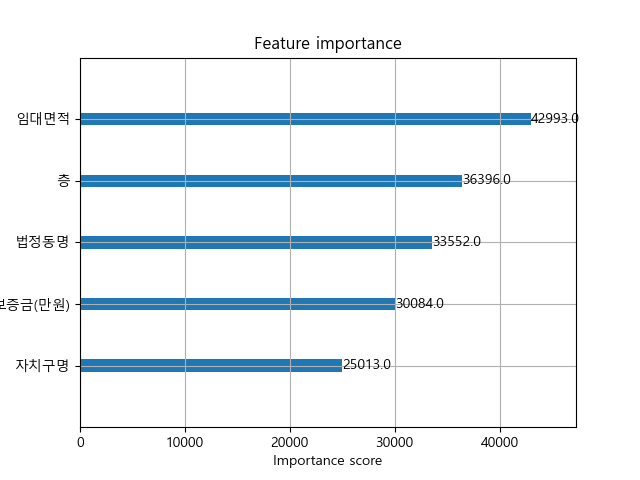
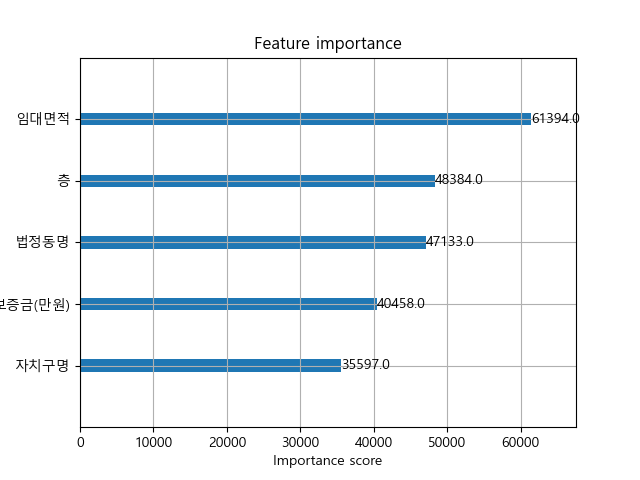
streamlit api서버연결 코드 추가

diff --git a/ml_python/data_preprocessing.py b/ml_python/data_preprocessing.py
@@ -75,21 +75,30 @@ class DataPreProcessing:
         return df
     
 
-    def __checkYData(self, df):
+    def __checkYData(self, df, mode="scatter"):
         font_path = 'C:\\windows\\Fonts\\malgun.ttf'
         #font의 파일정보로 font name 을 알아내기
         font_prop = fm.FontProperties(fname=font_path).get_name()
         plt.rc('font', family=font_prop)
 
-        plt.figure(figsize=(12, 6))
-        plt.scatter(df.index, df["임대료(만원)"], alpha=0.4, color='dodgerblue')
+        if mode == "scatter":
+            plt.figure(figsize=(12, 6))
+            plt.scatter(df.index, df["임대료(만원)"], alpha=0.4, color='dodgerblue')
 
-        plt.title("정답 데이터 (임대료) 분포 - Scatter Plot")
-        plt.xlabel("데이터 인덱스")
-        plt.ylabel("임대료 (만원)")
-        plt.grid(True)
-        plt.tight_layout()
-        plt.savefig("./ml_python/graph/정답데이터이상치(정상화).png")
+            plt.title("정답 데이터 (임대료) 분포 - Scatter Plot")
+            plt.xlabel("데이터 인덱스")
+            plt.ylabel("임대료 (만원)")
+            plt.grid(True)
+            plt.tight_layout()
+            plt.savefig("./ml_python/graph/정답데이터이상치(정상화)2.png")
+        elif mode == "boxplot":
+            plt.figure(figsize=(12, 6))
+            plt.boxplot(df["임대료(만원)"])
+            plt.ylabel("임대료 범위")
+            plt.savefig("./ml_python/graph/정답데이터boxplot.png")
+        else:
+            raise Exception("wrong mode name")
+
         # plt.show()
 
     
@@ -113,7 +122,12 @@ class DataPreProcessing:
 
     def extract(self):
         self.df = self.df[self.df['전월세구분'] == '월세'] # 월세 데이터만 가져오기
-        self.df = self.df[self.df['임대료(만원)'] < 400] # 정답 데이터의 이상치 제거 
+        # self.df = self.df[self.df['임대료(만원)'] < 400] # 정답 데이터의 이상치 제거 
+        # 신뢰도 95% 기준 이상치 Index 추출
+        outlier = self.df[(abs((self.df['임대료(만원)']-self.df['임대료(만원)'].mean())/self.df['임대료(만원)'].std()))>1.96].index
+        # 추출한 인덱스의 행을 삭제하여 clean_df 생성
+        self.df = self.df.drop(outlier)
+
         self.df = self.df[self.usecolumns]
         print(self.df)
         self.__dataCheck()
@@ -125,7 +139,7 @@ class DataPreProcessing:
         print(X_train)
         print(y_train)
 
-        self.__checkYData(y_train)
+        # self.__checkYData(y_train,mode="boxplot")
 
 
         return X_train, X_test, y_train, y_test
@@ -134,6 +148,6 @@ class DataPreProcessing:
 
 
 if __name__ == "__main__":
-    data = DataPreProcessing("./trainData/seoulData.csv")
+    data = DataPreProcessing("./ml_python/trainData/seoulData.csv")
 
     data.extract()

diff --git a/ml_python/train.py b/ml_python/train.py
@@ -21,7 +21,7 @@ class TrainModel:
         self.gridSearchDict = {
             "n_estimators": [200,300,400],
             "learning_rate": [0.05,0.1,0.2],
-            "max_depth": [5,10, 20]
+            "max_depth": [5,10] #20은 너무 오래걸림
         }
 
 
@@ -33,19 +33,19 @@ class TrainModel:
 
     def trainGrid(self):
         model = xgb.XGBRegressor()
-        grid = GridSearchCV(model, param_grid=self.gridSearchDict,scoring="r2",verbose=True)
+        grid = GridSearchCV(model, param_grid=self.gridSearchDict,scoring="r2", n_jobs=-1, verbose=2) #n_jobs=-1 : 모든 코어 사용
         grid.fit(self.X_train, self.y_train)
 
         self.model = grid.best_estimator_
         print(f"최적의 파라미터: {grid.best_params_}")
 
     def train(self):
-        model = xgb.XGBRegressor(
+        self.model = xgb.XGBRegressor(
             n_estimators= 400,
             learning_rate= 0.1,
-            max_depth= 20
+            max_depth= 10
         )
-        model.fit(self.X_train, self.y_train)
+        self.model.fit(self.X_train, self.y_train)
 
 
 
@@ -135,7 +135,7 @@ if __name__ == "__main__":
     modelTrain.train()
     modelTrain.valid()
     modelTrain.show_graph()
-    modelTrain.save_model("./ml_python/model/xbg_model.pkl") 
+    modelTrain.save_model("./ml_python/model/xgb_model2.pkl") 
 
     # result = TrainModel.inferenceModel("./ml_python/model/xbg_model.pkl",{
     #     "자치구명": "영등포구",

diff --git a/streamlit/main.py b/streamlit/main.py
@@ -2,6 +2,7 @@ import streamlit as st
 import folium
 from streamlit_folium import st_folium
 import sys, os
+import requests
 sys.path.append(os.path.dirname(os.path.abspath(os.path.dirname(__file__))))
 from ml_python.train import TrainModel
 
@@ -75,13 +76,16 @@ def mainView():
 
         if selected not in st.session_state.inference_cache: #radio변경때만 model실행
             with st.spinner("상세 정보를 불러오는 중입니다..."):
-                result = TrainModel.inferenceModel("./ml_python/model/xbg_model.pkl",{
-                    "자치구명": "영등포구",
-                    "법정동명": "신도림동",
-                    "층": 7,
-                    "임대면적": 27.01,
-                    "보증금(만원)": 1000
+                res = requests.post("http://devtomato.synology.me:9904/api/model/getModelResult", json={
+                    "J": "영등포구",
+                    "B": "신도림동",
+                    "Floor": 7,
+                    "Area": 27.01,
+                    "securityMoney": 1000
                 })
+
+                if res.ok:
+                    result = res.json()["content"]
                 st.session_state.inference_cache[selected] = result
                 
         else:
